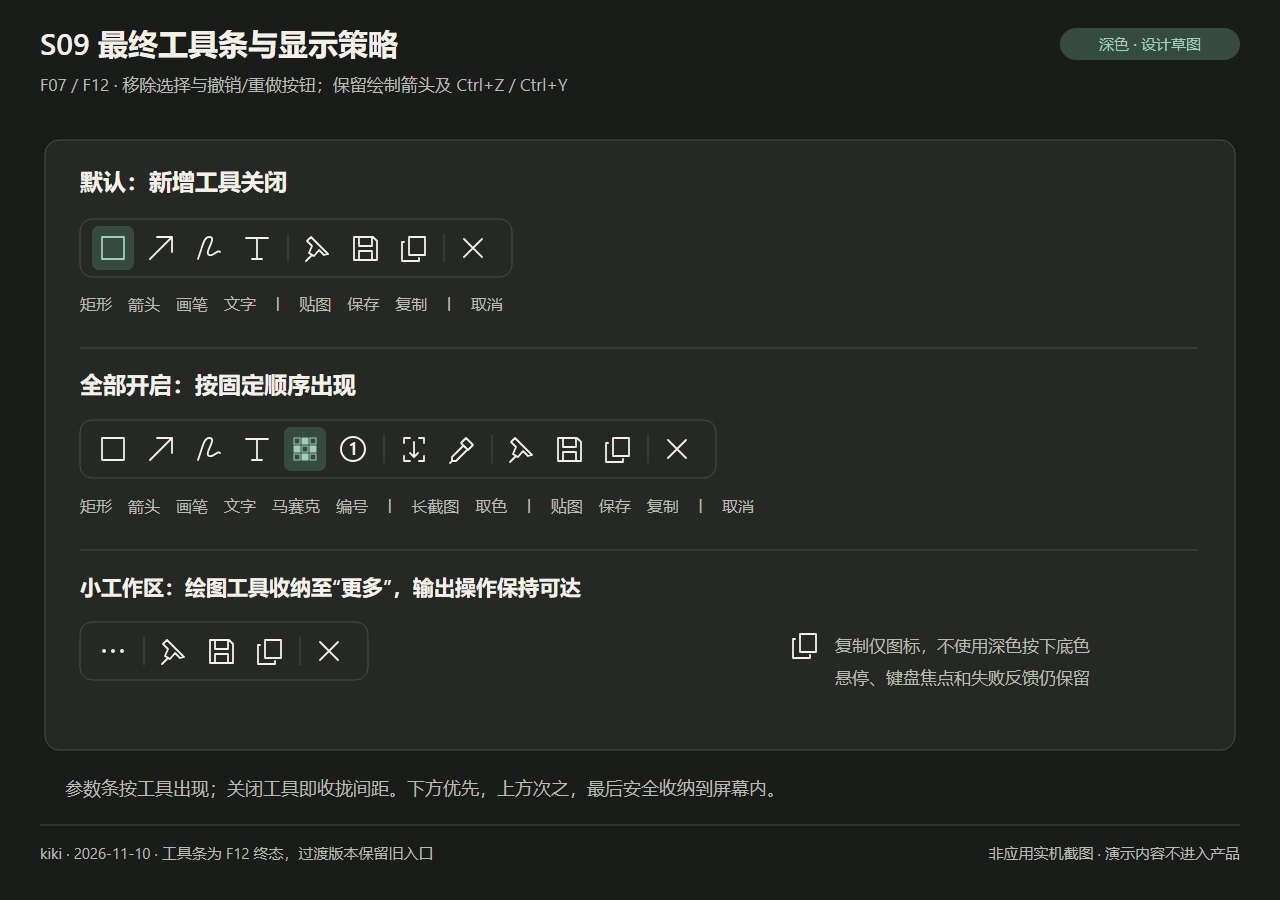
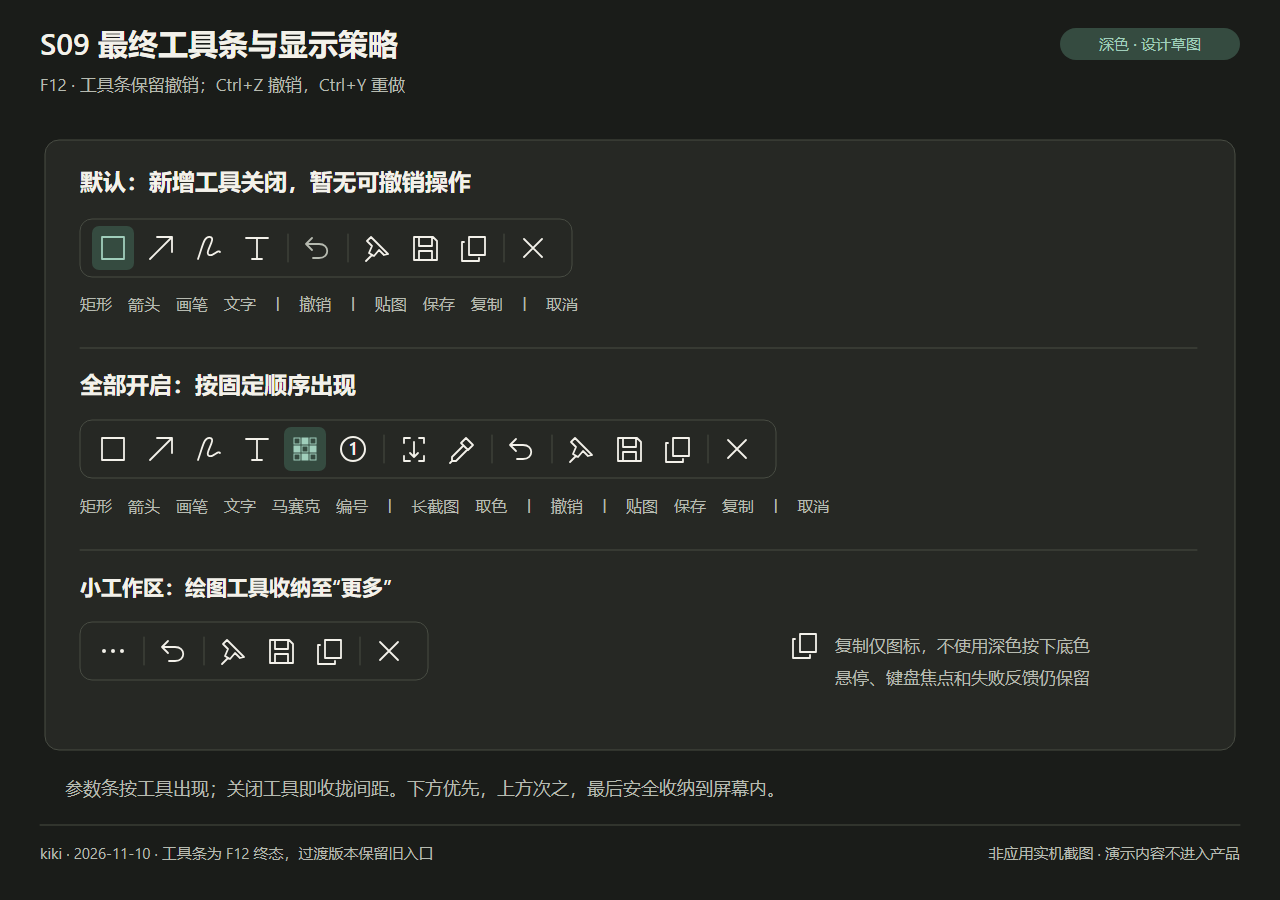
fix(capture): restore undo in the screenshot toolbar

diff --git a/src/platform/windows/capture_toolbar.rs b/src/platform/windows/capture_toolbar.rs
@@ -5,6 +5,7 @@ use crate::core::{
     selection::{PixelPoint, contains, toolbar},
 };
 
+pub const UNDO: usize = 5;
 pub const COPY: usize = 9;
 pub const MORE: usize = 21;
 pub const MOSAIC: usize = 22;
@@ -20,11 +21,12 @@ const BUTTON_GAP: f32 = 4.;
 const TOOLS: [usize; Tool::TOOLBAR.len()] = [1, 2, 3, 4, MOSAIC, SEQUENCE, LONG_CAPTURE, PICKER];
 const DRAWING: &[usize] = TOOLS.split_at(TOOLS.len() - 2).0;
 const PICKING: &[usize] = TOOLS.split_at(TOOLS.len() - 2).1;
+const HISTORY: &[usize] = &[UNDO];
 const OUTPUT: &[usize] = &[7, 8, COPY];
 const CANCEL: &[usize] = &[10];
-const FULL: &[&[usize]] = &[DRAWING, PICKING, OUTPUT, CANCEL];
-const COLLAPSED: &[&[usize]] = &[&[MORE], OUTPUT, CANCEL];
-const MAX_BUTTONS: usize = TOOLS.len() + OUTPUT.len() + CANCEL.len();
+const FULL: &[&[usize]] = &[DRAWING, PICKING, HISTORY, OUTPUT, CANCEL];
+const COLLAPSED: &[&[usize]] = &[&[MORE], HISTORY, OUTPUT, CANCEL];
+const MAX_BUTTONS: usize = TOOLS.len() + HISTORY.len() + OUTPUT.len() + CANCEL.len();
 
 pub fn tool_button(tool: Tool) -> usize {
     tool.index().map_or(0, |index| TOOLS[index])
@@ -46,6 +48,7 @@ pub fn tool_visible(capture_tools: [bool; Tool::TOOLBAR.len()], id: usize) -> bo
 
 pub fn enabled(editor: &Editor, id: usize) -> bool {
     match id {
+        UNDO => editor.can_undo(),
         11..=18 => editor.tool.has_color(),
         19..=20 => editor.tool.parameter().is_some(),
         7..=10 | MORE => true,
@@ -55,6 +58,7 @@ pub fn enabled(editor: &Editor, id: usize) -> bool {
 
 pub fn name(id: usize) -> &'static str {
     match id {
+        UNDO => "撤销（Ctrl+Z）",
         7 => "贴图",
         8 => "保存（Ctrl+S）",
         COPY => "复制（Enter）",
@@ -312,6 +316,7 @@ mod tests {
                     SEQUENCE,
                     LONG_CAPTURE,
                     PICKER,
+                    UNDO,
                     7,
                     8,
                     COPY,
@@ -323,10 +328,10 @@ mod tests {
                 assert_eq!(layout.buttons().map(|b| b.id).collect::<Vec<_>>(), expected);
                 let groups = usize::from(tools[..6].iter().any(|&enabled| enabled))
                     + usize::from(tools[6..].iter().any(|&enabled| enabled));
-                assert_eq!(layout.dividers().count(), 1 + groups);
+                assert_eq!(layout.dividers().count(), 2 + groups);
                 assert_eq!(layout.overflow().count(), 0);
                 assert_eq!(layout.toolbar.intersection(display), Some(layout.toolbar));
-                let width = ((230 + mask.count_ones() * 46 + groups as u32 * 14) as f32 * scale)
+                let width = ((290 + mask.count_ones() * 46 + groups as u32 * 14) as f32 * scale)
                     .round() as i32;
                 assert_eq!(layout.toolbar.right - layout.toolbar.left, width);
                 for button in layout.buttons() {
@@ -340,12 +345,12 @@ mod tests {
                         Some(button.id),
                     );
                 }
-                let preview = Layout::preview(rect(0, 0, 660, 48), tools);
+                let preview = Layout::preview(rect(0, 0, 720, 48), tools);
                 assert_eq!(
                     preview.buttons().map(|b| b.id).collect::<Vec<_>>(),
                     expected
                 );
-                assert_eq!(preview.dividers().count(), 1 + groups);
+                assert_eq!(preview.dividers().count(), 2 + groups);
             }
         }
     }
@@ -367,17 +372,17 @@ mod tests {
         );
         assert_eq!(
             medium.buttons().map(|b| b.id).collect::<Vec<_>>(),
-            [MORE, 7, 8, COPY, 10]
+            [MORE, UNDO, 7, 8, COPY, 10]
         );
 
-        let display = rect(-660, 0, 640, 900);
-        let narrow = Layout::new(selection, display, 2., Tool::Mosaic, tools);
+        let display = rect(-740, 0, 720, 900);
+        let narrow = Layout::new(selection, display, 2., Tool::Rectangle, tools);
         assert_eq!(narrow.overflow().collect::<Vec<_>>(), [1, 3, 4, MOSAIC]);
         assert_eq!(
             narrow.buttons().map(|b| b.id).collect::<Vec<_>>(),
-            [MORE, 7, 8, COPY, 10]
+            [MORE, UNDO, 7, 8, COPY, 10]
         );
-        assert_eq!(narrow.dividers().count(), 2);
+        assert_eq!(narrow.dividers().count(), 3);
         assert_eq!(narrow.bounds.intersection(display), Some(narrow.bounds));
         assert!(narrow.bounds.bottom <= selection.top);
         assert!(narrow.parameter_scale < narrow.scale);
@@ -390,7 +395,7 @@ mod tests {
         let settings = Layout::preview(rect(0, 0, 390, 48), tools);
         assert_eq!(
             settings.buttons().map(|b| b.id).collect::<Vec<_>>(),
-            [1, 3, 4, MOSAIC, 7, 8, COPY, 10]
+            [1, 3, 4, MOSAIC, UNDO, 7, 8, COPY, 10]
         );
         assert_eq!(settings.overflow().count(), 0);
         assert!(settings.scale < 1.);
@@ -405,7 +410,7 @@ mod tests {
         );
         assert_eq!(
             no_tools.buttons().map(|b| b.id).collect::<Vec<_>>(),
-            [7, 8, COPY, 10]
+            [UNDO, 7, 8, COPY, 10]
         );
         assert_eq!(no_tools.overflow().count(), 0);
         assert_eq!(no_tools.toolbar.intersection(tiny), Some(no_tools.toolbar));

diff --git a/src/platform/windows/preview_acceptance_tests.rs b/src/platform/windows/preview_acceptance_tests.rs
@@ -673,6 +673,55 @@ fn long_edit_fixture(scale_percent: i32) -> (Preview, *mut State, PixelPoint) {
     (preview, state, sample)
 }
 
+#[test]
+fn undo_button_is_visible_and_uses_history_in_both_editors() {
+    let _com = prepare_windows();
+    for long in [false, true] {
+        let (preview, state) = if long {
+            let (preview, state, _) = long_edit_fixture(150);
+            (preview, state)
+        } else {
+            capture_fixture(Image::new(rect(0, 0, 900, 660)).unwrap(), Vec::new())
+        };
+        let hwnd = preview.hwnd().unwrap();
+        // SAFETY: the test owns this hidden preview and sends messages only to its HWND.
+        unsafe {
+            (*state).editor.clear_document();
+            (*state).editor.tool = Tool::Select;
+            let desktop = (*state).canvas.window_bounds();
+            let layout = (*state).layout().unwrap();
+            let undo = layout
+                .buttons()
+                .find(|b| b.id == capture_toolbar::UNDO)
+                .unwrap()
+                .bounds;
+            let undo_center = point((undo.left + undo.right) / 2, (undo.top + undo.bottom) / 2);
+            assert!(!(*state).can_focus(&layout, capture_toolbar::UNDO));
+            click(hwnd, desktop, undo_center);
+            assert!((*state).editor.objects().is_empty());
+
+            (*state).editor.tool = Tool::Rectangle;
+            (*state).editor.begin_at(point(60, 60), None).unwrap();
+            (*state).editor.finish(point(170, 100));
+            (*state).editor.tool = Tool::Select;
+            assert!((*state).can_focus(&layout, capture_toolbar::UNDO));
+            click(hwnd, desktop, undo_center);
+            assert!((*state).editor.objects().is_empty());
+            assert!(!(*state).can_focus(&layout, capture_toolbar::UNDO));
+
+            (*state).editor.redo();
+            assert_eq!((*state).editor.objects().len(), 1);
+            (*state).keyboard_focus = true;
+            (*state).focus = capture_toolbar::UNDO;
+            SendMessageW(hwnd, WM_KEYDOWN, Some(WPARAM(13)), None);
+            assert!((*state).editor.objects().is_empty());
+            assert!((*state).editor.can_redo());
+            assert!(preview.is_open());
+        }
+    }
+    assert!(take_ui_errors().is_empty());
+}
+
 fn navigate_long_to_bottom(preview: &Preview, state: *mut State) {
     // SAFETY: these coordinates and the live state belong to the test-owned Preview.
     unsafe {

diff --git a/src/platform/windows/toolbar_icons.rs b/src/platform/windows/toolbar_icons.rs
@@ -1,6 +1,8 @@
 //! Outline shapes measured against the capture design, in toolbar DIPs.
 use super::{
-    capture_toolbar::{BUTTON_HEIGHT, COPY, LONG_CAPTURE, Layout, MORE, MOSAIC, PICKER, SEQUENCE},
+    capture_toolbar::{
+        BUTTON_HEIGHT, COPY, LONG_CAPTURE, Layout, MORE, MOSAIC, PICKER, SEQUENCE, UNDO,
+    },
     ui_palette as palette,
 };
 use crate::core::{geometry::PixelRect, selection::PixelPoint};
@@ -74,6 +76,18 @@ const TEXT: &[Figure] = &[
     ),
     Figure((0., -7.4), &[L((0., 7.4))], false),
     Figure((-2.7, 7.4), &[L((2.7, 7.4))], false),
+];
+const UNDO_ICON: &[Figure] = &[
+    Figure(
+        (-7.5, -3.8),
+        &[
+            L((0.8, -3.8)),
+            C((8.3, -3.8), (9.3, 7.3), (0.6, 7.3)),
+            L((-2.2, 7.3)),
+        ],
+        false,
+    ),
+    Figure((-3.4, -7.9), &[L((-7.5, -3.8)), L((-3.4, 0.3))], false),
 ];
 const PIN: &[Figure] = &[
     Figure(
@@ -209,7 +223,7 @@ impl ToolbarIcons {
                     Some(path(ARROW)?),
                     Some(path(PEN)?),
                     Some(path(TEXT)?),
-                    None,
+                    Some(path(UNDO_ICON)?),
                     None,
                     Some(path(PIN)?),
                     Some(path(SAVE)?),
@@ -347,6 +361,7 @@ pub(super) struct BarState {
     pub hover: Option<usize>,
     pub pressed: Option<usize>,
     pub focus: usize,
+    pub can_undo: bool,
     pub busy: bool,
 }
 
@@ -407,7 +422,7 @@ impl BarPaint<'_> {
                     radiusX: 7. * scale,
                     radiusY: 7. * scale,
                 };
-                let active = !state.busy;
+                let active = !state.busy && (id != UNDO || state.can_undo);
                 let over = state.hover == Some(id);
                 let selected = id == state.selected
                     || id == MORE && layout.overflow().any(|id| id == state.selected);
@@ -439,7 +454,7 @@ impl BarPaint<'_> {
                     Y: (b.top + b.bottom) / 2.,
                 };
                 self.icons.draw(self.target, self.brush, id, center, scale);
-                if state.focus == id {
+                if state.focus == id && (id != UNDO || active) {
                     self.brush.SetColor(&color(palette::accent(dark), 1.));
                     self.target.DrawRoundedRectangle(
                         &D2D1_ROUNDED_RECT {

diff --git a/src/platform/windows/preview.rs b/src/platform/windows/preview.rs
@@ -296,6 +296,7 @@ impl State {
             7..=9 => {
                 self.pending_output = Some(index);
             }
+            capture_toolbar::UNDO => self.editor.undo(),
             10 => return true,
             _ => {}
         }
@@ -2744,7 +2745,7 @@ mod tests {
             assert_eq!(state.editor.tool, Tool::Select);
             // End the existing draft before exercising toolbar keyboard navigation.
             (*pointer).text_input = None;
-            for expected in [3, 7, 8, capture_toolbar::COPY, 10, 2] {
+            for expected in [3, capture_toolbar::UNDO, 7, 8, capture_toolbar::COPY, 10, 2] {
                 SendMessageW(hwnd, WM_KEYDOWN, Some(WPARAM(9)), None);
                 assert_eq!((*pointer).focus, expected);
             }

diff --git a/src/core/annotation.rs b/src/core/annotation.rs
@@ -527,7 +527,6 @@ impl Editor {
     pub fn active(&self) -> bool {
         self.drag.is_some()
     }
-    #[cfg(test)]
     pub fn can_undo(&self) -> bool {
         (!self.undo.is_empty() || self.parameter_before.is_some()) && !self.active()
     }

diff --git a/src/platform/windows/selection_render.rs b/src/platform/windows/selection_render.rs
@@ -604,6 +604,7 @@ impl Canvas {
                 hover,
                 pressed,
                 focus,
+                can_undo: editor.can_undo(),
                 busy,
             },
         );

diff --git a/docs/FEATURE_PLAN.md b/docs/FEATURE_PLAN.md
@@ -10,7 +10,7 @@
 
 - 保持 Rust 2024、固定 Rust 1.88.0、windows-rs、Win32/Direct2D/DirectWrite/WIC 和 Windows 11 x64 ZIP 交付。复用已有工程，不引入 WebView 或其他 GUI 框架。
 - 本轮批准长截图、马赛克、顺序编号和取色；此前规格中将它们列为后续范围的条款由本方案覆盖。OCR、模糊、录屏/GIF、历史、放大镜、贴图再次标注等未列出的功能仍不在范围内。
-- F07 人工复测后提前移除**鼠标选择工具按钮**，保留绘图箭头。设置开关使用工具条同款图标和顺序，并提供实时预览。F12 移除撤销/重做按钮，保留 Ctrl+Z/Ctrl+Y 与撤销能力。
+- F07 人工复测后提前移除**鼠标选择工具按钮**，保留绘图箭头。设置开关使用工具条同款图标和顺序，并提供实时预览。F12 按用户复测反馈保留撤销按钮与 Ctrl+Z，重做通过 Ctrl+Y 操作。
 - 依次交付 F01–F12。每项先实现并同步候选目标版本，再对该版本构建、关联回归、规定验收和解压包烟雾验证；通过后创建本地 tag，再进入下一功能。不得验收旧二进制后只改版本给新包打标签，也不得合并成一个未验收的大阶段。
 - 最小修改递增第三位，小优化或独立功能递增第二位，大优化递增第一位；递增前位时后位归零。阶段表是无插入修复时的计划版本。若计划标签已被额外修复占用，按同一规则使用下一个递增且未使用的版本，并同步进度和报告名称/链接（例如 F06 的 v0.7.1 被占用则用 v0.7.2）；不覆盖或移动已有 tag。
 - 设计保持暖灰、松绿、线性图标、Win11 圆角和现有六页设置导航。新增项集中在截图设置页，以分组、留白和分隔线组织；内容超出时滚动，保存状态固定在底部。
@@ -149,11 +149,11 @@ F02 将当前配置从 `version=1` 升级为 `version=2`。继续使用现有本
 | **F09 · v0.10.0** 顺序编号 | 红色圆编号，按创建顺序插入、移动、调直径；删除重排、撤销重做恢复排序；接入设置和开关 | F01、F02、F07 | S02、S03、S05 | `F09-AC-001`–`005`：连续编号/删除中项/历史/两位数/新会话、大小与导出 |
 | **F10 · v0.11.0** 取色 | 区域取色浮层、HEX/RGB 按次 Shift 切换、点击复制字符串并继续取色；每次进入默认 HEX；接入开关 | F07、既有冻结图像和剪贴板 | S03、S06 | `F10-AC-001`–`005`：已知像素、边界/浮层排除、Shift长按与松开、连续复制及失败 |
 | **F11 · v1.0.0** 长截图 | 进入即不可恢复地清空标注/草稿/历史；手动纵向滚动采集、重叠拼接、右侧预览、有界资源；完成后静态长图编辑，复用全部已启用工具和输出 | F01–F10、现有捕获生命周期 | S03、S07、S08 | `F11-AC-001`–`012`：清空语义、拼接/底部/重复/失败/上限、长图导航标注取色输出和资源回收 |
-| **F12 · v1.0.2** 最终工具条精简 | 移除撤销、重做按钮，验证选择按钮已移除；保留绘图箭头及 Ctrl+Z/Ctrl+Y；复制只留图标，去掉深色按下底色；完成全部开关组合和浅深主题回归 | F01–F11 全部通过 | S09；回归 S01–S08 | `F12-AC-001`–`005`：动作/快捷键/焦点/复制状态、组合布局及全部功能交叉回归 |
+| **F12 · v1.0.2** 最终工具条精简 | 保留撤销按钮，有历史时可操作；移除重做按钮，验证选择按钮已移除；保留绘图箭头及 Ctrl+Z/Ctrl+Y；复制只留图标，去掉深色按下底色；完成全部开关组合和浅深主题回归 | F01–F11 全部通过 | S09；回归 S01–S08 | `F12-AC-001`–`005`：动作/快捷键/焦点/复制状态、组合布局及全部功能交叉回归 |
 
 ### 4.1 阶段实现时必须同步的界面行为
 
-- F07 人工复测优化后，工具条从首个可见绘图工具开始。撤销、重做和原复制样式保留至 F12，现有功能的相对顺序保持一致。
+- F07 人工复测优化后，工具条从首个可见绘图工具开始。F12 在绘图与采集工具之后、固定输出之前显示撤销，窄屏收纳绘图与采集工具时撤销仍直接可达。
 - 最终顺序为：**矩形、箭头、画笔、文字、马赛克、编号 | 长截图、取色 | 贴图、保存、复制 | 取消**；隐藏关闭工具并收紧空位，空分组不留下孤立分隔线。输出和取消不属于可隐藏工具。
 - 当前工具使用松绿轻高亮；复制为纯图标操作，保留名称提示、可辨焦点、悬停和忙碌状态，不增加深色实心按下标识。功能名称、热键提示不得随数组位置错配。
 - 截图工具条仍横排：选区下方优先，其次上方，再安全收纳于实际显示器内；不能停在显示器间隙。长图窗口按右侧预览和主画布可用空间布局，不覆盖可操作区域。

diff --git a/docs/PROGRESS.md b/docs/PROGRESS.md
@@ -4,9 +4,9 @@
 
 ## v1.0.2 · F12 候选
 
-- 普通截图、长图编辑和设置预览共用精简后的工具条。移除撤销、重做按钮，复制改为双页图标，按下沿用悬停反馈。绘图箭头、Ctrl+Z / Ctrl+Y 和固定输出操作继续可用。
-- 已验证全部 256 种工具开关组合、模拟窄屏与四档缩放、键盘焦点、输出回归和 ZIP 清单。实机界面与其余放行项目见 [F12 验收报告](validation/F12-v1.0.2.md)。
-- 单屏 125% 实机已核对浅深主题的普通截图和设置预览、箭头撤销与重做、深色复制焦点与提示。实存 PNG 为 1150 × 308 px，透明圆角和标注均通过解码检查。长图编辑、实际粘贴及中文 IME 候选待复验。
+- 按复测反馈恢复撤销按钮。它在普通截图、长图编辑和设置预览中常驻，有编辑历史时可点击撤销。重做通过 Ctrl+Y 操作，复制仍为双页图标。
+- 修订版默认及全特性测试各通过 82 项，覆盖 256 种工具开关组合、四档缩放、窄屏和两个编辑器中的鼠标与键盘撤销。Windows x64 ZIP 已重新打包并核对。
+- 首轮候选已在单屏 125% 复核普通截图与设置预览的浅深主题、箭头快捷键、复制焦点和实际 PNG。修订版的按钮状态仍待桌面复验。长图编辑实机、实际粘贴及中文 IME 候选缺项见 [F12 验收报告](validation/F12-v1.0.2.md)。
 
 ## v1.0.1 · 发布流程验证版
 
@@ -43,7 +43,7 @@
 | F09 | 顺序标识 / v0.10.0 | F08 | S05 | 按用户要求本地放行。编号历史、参数和输出自动通过，实机多 DPI、整进程重启及外部应用粘贴显示待补 | [F09](validation/F09-v0.10.0.md) | `0300e86`／`v0.10.0` |
 | F10 | 取色 / v0.11.0 | F09 | S06 | 按用户要求本地放行。Shift、剪贴板往返及模拟采样边界自动通过，真实双屏和中文 IME 候选待补 | [F10](validation/F10-v0.11.0.md) | `ae75019`／`v0.11.0` |
 | F11 | 长截图及长图编辑 / v1.0.0 | F10 | S07、S08 | 已按用户要求合入主分支并标记本地版本，实体双屏和混合 DPI 后续补验 | [F11](validation/F11-v1.0.0.md) | `31a748e`／`v1.0.0` |
-| F12 | 最终工具条精简 / v1.0.2 | F11 | S09 | 自动回归通过，普通截图实机已验证，长图编辑等待复验 | [F12](validation/F12-v1.0.2.md) | `4800a7f`／待放行 |
+| F12 | 最终工具条精简 / v1.0.2 | F11 | S09 | 已按反馈恢复撤销按钮，修订版自动回归通过，实机待复验 | [F12](validation/F12-v1.0.2.md) | `codex/f12-toolbar`／待放行 |
 
 状态流：待确认 → 已批准／待开发 → 开发中 → 待验证 → 已完成；外部阻塞另列原因、缺项和解除条件。每次更新记录改动、实际检查、证据、缺陷、提交和下一步。功能通过放行条件后才打本地带说明标签；不推送或公开发布。
 

diff --git a/docs/ACCEPTANCE_PLAN.md b/docs/ACCEPTANCE_PLAN.md
@@ -236,8 +236,8 @@ git diff --check
 
 | 用例 ID | 前提 | 动作 | 可观察预期 | 证据类型 | 状态 |
 | --- | --- | --- | --- | --- | --- |
-| F12-AC-001 | F01–F11 已验收；全部八工具开关可配置 | 检查全开/默认/全关工具条，使用保留的绘图箭头 | 选择、撤销和重做按钮均已移除，绘图箭头可用，顺序分组与草图一致，无无效间隙 | 深浅截图、GUI 录屏、布局测试 | 待执行 |
-| F12-AC-002 | 已有可撤销操作及多行文字输入 | Ctrl+Z / Ctrl+Y，Delete、Enter、Ctrl+S、Ctrl+P；重编文字 | 移除按钮不移除快捷键和历史能力；文字编辑快捷键优先级不变，输出正常 | GUI/IME 录屏、快捷键测试 | 待执行 |
+| F12-AC-001 | F01–F11 已验收；全部八工具开关可配置 | 检查全开/默认/全关工具条，使用绘图箭头 | 选择和重做按钮已移除，撤销常驻，绘图箭头可用，顺序分组与 S09 一致 | 深浅截图、GUI 录屏、布局测试 | 待执行 |
+| F12-AC-002 | 已有可撤销操作及多行文字输入 | 点击撤销或聚焦后按 Enter，验证无历史时禁用；使用 Ctrl+Z / Ctrl+Y、Delete、Ctrl+S、Ctrl+P 并重编文字 | 撤销按钮和快捷键共用历史；文字编辑快捷键优先级和输出正常 | GUI/IME 录屏、快捷键测试 | 待执行 |
 | F12-AC-003 | 复制按钮存在；深浅主题，鼠标与键盘操作 | 悬停、按下、释放、键盘聚焦及激活复制 | 复制只保留图标，去除“复制”文字及深色按下标识；仍有可理解提示、焦点反馈、真实命中与复制功能 | 状态截图、GUI 录屏、剪贴板检查 | 待执行 |
 | F12-AC-004 | 所有新工具开/关组合，边缘选区及多个 DPI | 遍历工具条、参数条和长截图预览，执行代表性标注输出 | 动态宽度、分组、命中、焦点顺序正确；窄屏可操作、不越界，无回归到占位控件 | 实机截图/录屏、最终成图 | 待执行 |
 | F12-AC-005 | 最终源码、版本文件、文档及 ZIP 候选 | 执行完整构建、相关功能回归和交付检查；核对报告/提交/tag/ZIP | 仅实际完成项标通过；版本和产物一致；既有环境缺项仍明确记录；未满足放行门槛不创建完成标签 | 命令日志、验收报告、ZIP 清单/哈希 | 待执行 |

diff --git a/docs/DESIGN_SPEC.md b/docs/DESIGN_SPEC.md
@@ -76,12 +76,12 @@ v0.2.2 至 v0.8.0 工具条顺序：
 
 选择、矩形、箭头、画笔、文字 | 撤销、重做 | 贴图、保存、复制 | 取消
 
-- F07 起工具开关控制已有绘图工具；新工具在对应功能阶段完成时才加入工具条和设置。F12 最终全开顺序：矩形、箭头、画笔、文字、马赛克、编号 | 长截图、取色 | 贴图、保存、复制 | 取消。
+- F07 起工具开关控制已有绘图工具；新工具在对应功能阶段完成时才加入工具条和设置。F12 最终全开顺序：矩形、箭头、画笔、文字、马赛克、编号 | 长截图、取色 | 撤销 | 贴图、保存、复制 | 取消。
 - 原四工具默认开启，新四工具默认关闭；隐藏后不留空位或冗余分隔线。输出和取消固定可达，极窄工作区把绘图工具收进“更多”，不缩小到无法点击。
-- F07 人工复测优化后移除鼠标选择按钮。F12 删除撤销/重做按钮并保留 Ctrl+Z/Ctrl+Y，复制仅保留线性图标及悬停、焦点和结果反馈，去除深色实心按下底色或持续选中状态。
+- F07 人工复测优化后移除鼠标选择按钮。F12 保留撤销按钮和 Ctrl+Z，重做通过 Ctrl+Y 操作。复制使用线性图标，保留悬停、焦点和结果反馈，按下时沿用悬停样式。
 - 主条归一到 48 DIP 高，普通按钮中心间距约 46 DIP、命中区为 42×36 DIP。分隔线随实际组动态生成，主条保留细边框，无底部硬阴影。
 - 当前工具与参数使用松绿圆角高亮。悬停、按下、禁用和键盘焦点分别呈现。
-- F12 前撤销和重做不可用时禁用，不随历史内容删除按钮；F12 后统一移除按钮。
+- 撤销按钮常驻，无可撤销操作时显示为禁用。设置预览以禁用状态展示撤销；窄屏将绘图与采集工具收纳至「更多」时，撤销仍留在工具条。
 - 悬停显示名称与已实现的快捷键，不显示未实现的按键说明。
 - 参数条根据工具出现。选择工具可不显示绘图参数。
 - F02/F03 参数使用预设颜色、连续滑杆和数值输入，单位是成图实际 px；普通滚轮每格调整 1 px。马赛克参数为颗粒大小，编号参数为直径（每格 2 px）。范围和默认值统一取 FEATURE_PLAN.md。

diff --git a/AGENTS.md b/AGENTS.md
@@ -27,7 +27,7 @@
 - 保持 Win11 圆角、适度半透明、松绿强调色（浅色 #365F56，深色 #A0CEBB）、线性图标、舒适但克制的间距。
 - 截图工具条横排，默认选区下方，不足则上方，再不足时安全收纳于屏幕内。
 - 默认跟随系统深浅色，并允许手动切换。至少验证浅色与深色两种截图工具条。
-- 保持已批准阶段的工具顺序、分组和按需出现的参数条。F07 人工复测后提前移除选择按钮，保留绘图箭头和选择状态。F12 移除撤销/重做按钮并保留快捷键，复制改为纯图标且无深色实心按下底色。不允许用未设计的默认控件拼接界面作为最终结果。
+- 保持已批准阶段的工具顺序、分组和按需出现的参数条。F07 人工复测后提前移除选择按钮，保留绘图箭头和选择状态。F12 按复测反馈保留撤销按钮及 Ctrl+Z，重做通过 Ctrl+Y 操作，复制改为纯图标且无深色实心按下底色。不允许用未设计的默认控件拼接界面作为最终结果。
 - 设计图是视觉参考，不是运行时 UI 贴图。必须绘制真实控件、实现真实命中区域与状态。
 - 不复制设计图中的桌面背景、示例文档、示例日期或模拟窗口内容到应用。
 - 固定功能不得因为效果图上存在下拉箭头而被擅自扩展。
